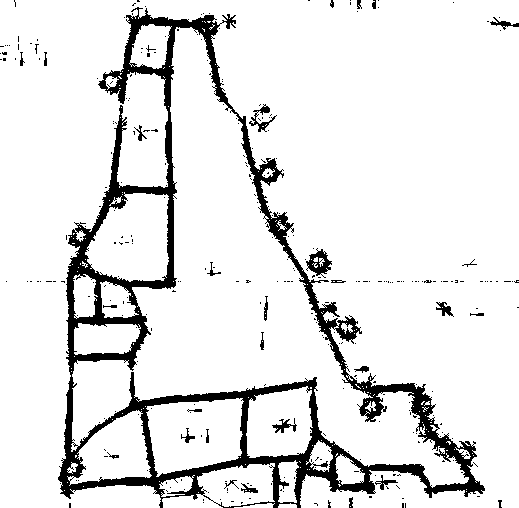
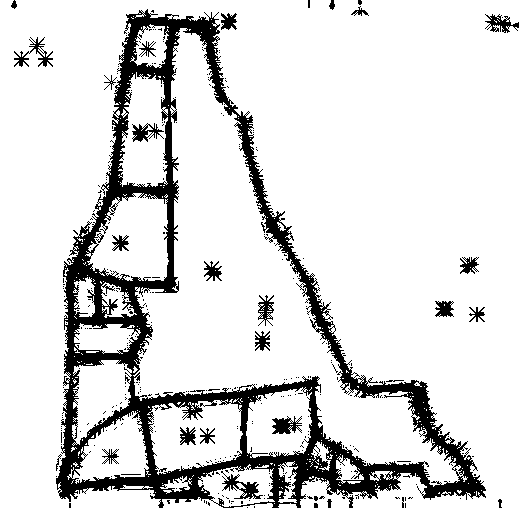
first version

diff --git a/1.0/edge_detector.py b/1.0/edge_detector.py
@@ -152,11 +152,13 @@ def checkWidth(index,x,y):#
         return check1(index,x,y)
      
     
-def check(img,x,y,pixel_Val):
+def check(img,x,y,pixel_Val,step):
     '''
     we can determine a missing edge pixel (x,y) through this method.
 
     '''
+    if step==1:
+       return 1
     pixel_level=255.0 #max value of a pixel
     index=0           # by index we can know which kernel is usefull  for that pixel 
     for i in range(0,kernel.count): #this loop determines the lowest value of the pixel (x,y) from imgages that were created using different  Kernels and the Kernel  
@@ -169,7 +171,7 @@ def check(img,x,y,pixel_Val):
         return 1
                        
 
-def work(img):
+def work(img,step):
     M,N=img.shape
     for i in range(0,M):
         for j in range(0,N):
@@ -179,13 +181,13 @@ def work(img):
                if  avg <=avgVal :
                    bin_img[i][j]=0
                else:
-                   bin_img[i][j]=check(img,i,j,img[i][j])
-                   if bin_img[i][j]==0:
-                      print('0x')
+                   bin_img[i][j]=check(img,i,j,img[i][j],step)
+                   #if bin_img[i][j]==0:
+                     # print('0x')
             else:
-               bin_img[i][j]=(check(img,i,j,img[i][j]))
-               if bin_img[i][j]==0:
-                  print('0y')
+               bin_img[i][j]=(check(img,i,j,img[i][j],step))
+               #if bin_img[i][j]==0:
+                  #print('0y')
     return 0
 '''
 def work(img):
@@ -206,9 +208,9 @@ def work(img):
 '''
 def init():
     global imob,kernel,maxEdgeVal,avgVal,n,m,bin_img,box,box_Width,box_Val,box_Range
-    box_Range=20
-    box_Val=8
-    box_Width=15
+    box_Range=15
+    box_Val=7
+    box_Width=10
     img_path='part.png'
     n=m=15
     avgVal=240.0
@@ -217,14 +219,16 @@ def init():
     imob=Image(cv2.imread(img_path,0))
     imob.size()
     imob.smoothing()
-    imob.images(imob.bilateral_img,kernel.kernels,kernel.count)
     maxEdgeVal=imob.maxEdgeVal(imob.bilateral_img,100,150)
     bin_img=np.ones((imob.M,imob.N),np.bool)
     box=np.ones((5,5),np.float);
 
 def main():
     init()
-    work(imob.bilateral_img)
+    work(imob.bilateral_img,1)
+    bin_img1=255*bin_img
+    imob.images(bin_img1,kernel.kernels,kernel.count)
+    work(bin_img1,2)
     cv2.imwrite('bin.png',255*bin_img)
 
 
